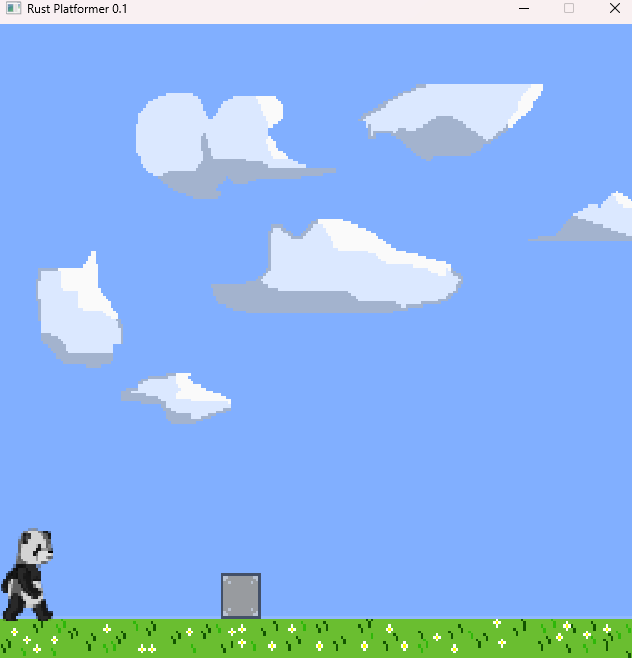
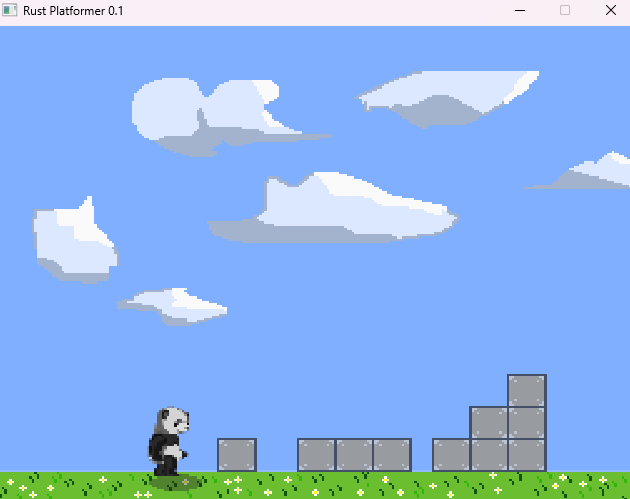
[Refactor] Improved workflow

diff --git a/src/state/command.rs b/src/state/command.rs
@@ -4,7 +4,7 @@ use std::time::Instant;
 
 use minifb::Key;
 
-use crate::state::{ACCELERATION, JUMP_VELOCITY, MAX_VELOCITY, Obstacle};
+use crate::state::{ACCELERATION, jump_obstacles, JUMP_VELOCITY, MAX_VELOCITY, Obstacle};
 use crate::state::player::Player;
 
 pub trait Command {
@@ -12,9 +12,6 @@ pub trait Command {
 }
 
 pub struct MoveLeft;
-pub struct MoveRight;
-pub struct Jump;
-pub struct Kick;
 
 impl Command for MoveLeft {
     fn execute(&self, player: &mut Player, obstacles: &Vec<Obstacle>) {
@@ -22,7 +19,7 @@ impl Command for MoveLeft {
         // Check if the player has any obstacles to the left by checking if its x coordinate violates any of the thresholds set by obstacles
         let obstacle_left: bool = obstacles.iter().any(|obs| {
             player.obstacle_left = true;
-            player.x < obs.x_right && player.x > obs.x_right -10.0 && player.on_ground
+            player.x < obs.x_right && player.x > obs.x_right -10.0 && player.y == obs.y_transition_pos
         });
 
         if !obstacle_left {
@@ -58,12 +55,16 @@ impl Command for MoveLeft {
             // Move player based on current velocity
             player.x -= player.vx;
 
+            jump_obstacles(player);
+
         }  else {
-            // Stop the player from moving right if colliding
+            // Stop the player from moving left if colliding
             player.vx = 0.0;
         }
     }
 }
+
+pub struct MoveRight;
 
 impl Command for MoveRight {
     fn execute(&self, player: &mut Player, obstacles: &Vec<Obstacle>) {
@@ -71,7 +72,7 @@ impl Command for MoveRight {
         // Check if the player has any obstacles to the right by checking if its x coordinate violates any of the thresholds set by obstacles
         let obstacle_right: bool = obstacles.iter().any(|obs| {
             player.obstacle_right = true;
-            player.x > obs.x_left && player.x < obs.x_left + 10.0 && player.on_ground
+            player.x > obs.x_left && player.x < obs.x_left + 10.0 && player.y >= obs.y_transition_pos
         });
 
         if !obstacle_right {
@@ -105,6 +106,8 @@ impl Command for MoveRight {
             // Move player based on current velocity
             player.x += player.vx;
 
+            jump_obstacles(player);
+
         }   else {
             // Stop the player from moving right if colliding
             player.vx = 0.0;
@@ -112,20 +115,21 @@ impl Command for MoveRight {
     }
 }
 
+pub struct Jump;
+
 impl Command for Jump {
     fn execute(&self, player: &mut Player, _obstacles: &Vec<Obstacle>) {
 
-        // Jumping is restricted to 1 jump a second in order to mitigate broken infinite jumping
-        let now = Instant::now();
-        if now.duration_since(player.last_jump_time) >= player.jump_cooldown {
+        if !player.is_jumping {
             player.vy = JUMP_VELOCITY;
             player.on_ground = false;
-            player.last_jump_time = now; // Update the last jump time
             player.last_key = Some(Key::Space);
+            player.is_jumping = true;
         }
     }
 }
 
+pub struct Kick;
 
 impl Command for Kick {
     fn execute(&self, player: &mut Player, _obstacles: &Vec<Obstacle>) {

diff --git a/src/state/global_command.rs b/src/state/global_command.rs
@@ -1,7 +1,8 @@
 use std::cell::RefCell;
-use std::collections::{HashMap, HashSet};
+use std::collections::HashMap;
 use std::rc::Rc;
-use crate::state::{GRAVITY, GROUND, LOWER_BOUND, Obstacle, UPPER_BOUND};
+
+use crate::state::{GRAVITY, GROUND, jump_obstacles, LOWER_BOUND, Obstacle, UPPER_BOUND};
 use crate::state::player::Player;
 
 pub trait GlobalCommand {
@@ -21,32 +22,8 @@ impl GlobalCommand for ApplyGravity {
 pub struct CollisionDetection;
 
 impl GlobalCommand for CollisionDetection {
-    fn execute(&self, player: &mut Player, obstacles: &Vec<Obstacle>) {
-        let mut obstacles_on = HashSet::new(); // Track obstacles the player is on
-        let mut highest_y_position = player.y; // Track the highest y position for transition
-
-        for obs in obstacles.iter() {
-            if is_on_obstacle(player.x, player.y, obs) {
-                println!("Player is on obstacle: {:?}", obs.id);
-                obstacles_on.insert(obs.id);
-                if obs.y_transition_pos > highest_y_position {
-                    highest_y_position = obs.y_transition_pos;
-                }
-            } else {
-                println!("Player is not on obstacle: {:?}", obs.id);
-            }
-        }
-
-        // Update player's position and state based on obstacles tracked
-        player.y = highest_y_position;
-        player.on_obstacles = obstacles_on;
-        // player.on_ground = !player.on_obstacles.is_empty(); // Set on ground if on any obstacle
-
-        println!("Final player state:");
-        println!("Player position: x = {}, y = {}", player.x, player.y);
-        println!("Obstacles player is on: {:?}", player.on_obstacles);
-        println!("Player on ground: {}", player.on_ground);
-        println!("Highest y transition position: {}\n", highest_y_position);
+    fn execute(&self, player: &mut Player, _obstacles: &Vec<Obstacle>) {
+        jump_obstacles(player);
     }
 }
 
@@ -82,6 +59,8 @@ pub struct Misc;
 impl GlobalCommand for Misc {
     fn execute(&self, player: &mut Player, _obstacles: &Vec<Obstacle>) {
 
+        println!("y vel: {}", player.vy);
+
         // Apply vertical velocity
         if !player.on_obstacle {
             player.y += player.vy;
@@ -97,8 +76,10 @@ impl GlobalCommand for Misc {
         if player.y >= GROUND {
             player.on_ground = true;
             player.almost_ground = false;
+            player.on_obstacle = false;
             player.vy = 0.0;
             player.y = GROUND;
+            player.is_jumping = false;
         } else {
             player.on_ground = false;
         }

diff --git a/src/state/mod.rs b/src/state/mod.rs
@@ -1,6 +1,7 @@
 use std::time::Duration;
 
 use minifb::Key;
+use crate::state::player::Player;
 
 pub mod event_loop;
 pub mod update;
@@ -9,7 +10,7 @@ pub mod global_command;
 pub mod player;
 mod input_handler;
 
-const FRAME_DURATION: Duration = Duration::from_millis(16); // Approximately 60Hz refresh rate
+const FRAME_DURATION: Duration = Duration::from_nanos(16666667); // 16.6666667 ms = 60 FPS
 const BACKGROUND_CHANGE_INTERVAL: Duration = Duration::from_secs(1);
 
 const GRAVITY: f32 = 0.5;
@@ -27,10 +28,64 @@ pub struct ObstacleId(pub usize);
 
 #[derive(Clone, Copy)]
 pub struct Obstacle {
-    pub id: ObstacleId, // Add an ID to identify each obstacle
+    pub id: ObstacleId,
     pub x_left: f32,
     pub x_right: f32,
     pub y_top: f32,
     pub y_bottom: f32,
     pub y_transition_pos: f32,
+}
+
+pub fn jump_obstacles(mut player: &mut Player) {
+
+    if player.x >= 70.0 && player.x <= 100.0 && player.y >= 175.0 && player.y <= 185.0 {
+        player.y = 185.0;
+        player.on_obstacle = true;
+        player.on_ground = true;
+        player.is_jumping = false;
+    }
+
+    else if player.x >= 113.0 && player.x <= 160.0 && player.y >= 175.0 && player.y <= 185.0 {
+
+        player.y = 185.0;
+        player.on_obstacle = true;
+        player.on_ground = true;
+        player.is_jumping = false;
+    }
+
+    else if player.x >= 160.0 && player.x <= 175.0 && player.y >= 175.0 && player.y <= 185.0 {
+
+        player.y = 185.0;
+        player.on_obstacle = true;
+        player.on_ground = true;
+        player.is_jumping = false;
+    }
+
+
+    else if player.x >= 174.0 && player.x <= 182.0 && player.y >= 160.0 && player.y <= 185.0 {
+
+        player.y = 185.0;
+        player.on_obstacle = true;
+        player.on_ground = true;
+        player.is_jumping = false;
+    }
+
+    else {
+        player.on_ground = false;
+        player.on_obstacle = false;
+    }
+}
+
+fn apply_friction(player: &mut Player) {
+    if player.vx > 0.0 {
+        player.vx -= FRICTION;
+        if player.vx < 0.0 {
+            player.vx = 0.0;
+        }
+    } else if player.vx < 0.0 {
+        player.vx += FRICTION;
+        if player.vx > 0.0 {
+            player.vx = 0.0;
+        }
+    }
 }

diff --git a/src/state/event_loop.rs b/src/state/event_loop.rs
@@ -35,10 +35,10 @@ pub fn start_event_loop(player: &mut Player, sprites: &Sprites, obstacles: &Vec<
         window_height,
         WindowOptions::default(),
     ).unwrap_or_else(|e| {
-        panic!("{}", e); // Panic if window creation fails
+        panic!("{}", e);
     });
 
-    // Initialize window buffer to store pixel data at low resolution
+    // Initialize window and scaled buffer
     let mut window_buffer = vec![0; WINDOW_WIDTH * WINDOW_HEIGHT];
     let mut scaled_buffer = vec![0; window_width * window_height];
 
@@ -48,15 +48,15 @@ pub fn start_event_loop(player: &mut Player, sprites: &Sprites, obstacles: &Vec<
 
     // Main event loop: runs as long as the window is open and the Escape key is not pressed
     while window.is_open() && !window.is_key_down(Key::Escape) {
-        let start = Instant::now(); // Record start time for frame timing
+        let start = Instant::now();
 
         // Update game state based on user input
         handle_user_input(player, &mut window, &obstacles, &commands, &global_commands);
 
-        // Check if it's time to change the background sprite
+        // Change background sprite every second
         if last_background_change.elapsed() >= BACKGROUND_CHANGE_INTERVAL {
             background_sprite_index = (background_sprite_index + 1) % 4; // Cycle between 0 and 3
-            last_background_change = Instant::now(); // Reset the timer
+            last_background_change = Instant::now(); // Reset the timer to current time
         }
 
         // Update the pixel buffer with the current game state
@@ -65,7 +65,7 @@ pub fn start_event_loop(player: &mut Player, sprites: &Sprites, obstacles: &Vec<
         // Render the updated buffer
         render(window_width, window_height, &mut window, &mut window_buffer, &mut scaled_buffer);
 
-        // Maintain a frame rate of approximately 60 fps
+        // Maintain a frame rate of 60 fps
         let elapsed = start.elapsed();
         if elapsed < FRAME_DURATION {
             thread::sleep(FRAME_DURATION - elapsed);

diff --git a/src/state/input_handler.rs b/src/state/input_handler.rs
@@ -1,10 +1,12 @@
 use std::cell::RefCell;
 use std::collections::HashMap;
 use std::rc::Rc;
+
 use minifb::{Key, KeyRepeat, Window};
+
+use crate::state::{apply_friction, Obstacle};
 use crate::state::command::CommandMap;
 use crate::state::global_command::GlobalCommand;
-use crate::state::{FRICTION, Obstacle};
 use crate::state::player::Player;
 
 pub fn handle_user_input(player: &mut Player, window: &mut Window, obstacles: &Vec<Obstacle>, commands: &CommandMap, global_commands: &HashMap<String, Rc<RefCell<dyn GlobalCommand>>>) {
@@ -28,17 +30,7 @@ pub fn handle_user_input(player: &mut Player, window: &mut Window, obstacles: &V
 
     // Apply friction to gradually slow down the player
     if !any_key_pressed {
-        if player.vx > 0.0 {
-            player.vx -= FRICTION;
-            if player.vx < 0.0 {
-                player.vx = 0.0;
-            }
-        } else if player.vx < 0.0 {
-            player.vx += FRICTION;
-            if player.vx > 0.0 {
-                player.vx = 0.0;
-            }
-        }
+        apply_friction(player);
     }
 }
 

diff --git a/src/main.rs b/src/main.rs
@@ -15,8 +15,10 @@ fn main() {
     let sprites = Sprites::new();
 
     let obstacles = vec![
-        Obstacle { id: ObstacleId(1),  x_left: 70.5, x_right: 98.0, y_bottom: 180.0, y_top: 160.0, y_transition_pos: 187.0},
-        // Obstacle { id: ObstacleId(2), x_left: 104., x_right: 158.0, y_bottom: 190.0, y_top: 170.0, y_transition_pos: 187.0},
+        Obstacle { id: ObstacleId(1),  x_left: 70.5, x_right: 98.0, y_bottom: 185.0, y_top: 175.0, y_transition_pos: 205.0},
+        Obstacle { id: ObstacleId(2), x_left: 107.0, x_right: 160.0, y_bottom: 185.0, y_top: 175.0, y_transition_pos: 205.0},
+        Obstacle { id: ObstacleId(3), x_left: 160.0, x_right: 212.0, y_bottom: 185.0, y_top: 175.0, y_transition_pos: 205.0},
+        Obstacle { id: ObstacleId(3), x_left: 173.0, x_right: 212.0, y_bottom: 185.0, y_top: 185.0, y_transition_pos: 185.0},
     ];
 
     let mut player = Player::new(1.0, 176.0);

diff --git a/src/state/player.rs b/src/state/player.rs
@@ -23,9 +23,8 @@ pub struct Player {
     pub almost_ground: bool,
     pub obstacle_left: bool,
     pub obstacle_right: bool,
-    pub last_jump_time: Instant,
-    pub jump_cooldown: Duration,
-    pub on_obstacles: HashSet<ObstacleId>
+    pub on_obstacles: HashSet<ObstacleId>,
+    pub is_jumping: bool
 }
 
 impl Player {
@@ -50,9 +49,8 @@ impl Player {
             almost_ground: false,
             obstacle_left: false,
             obstacle_right: false,
-            last_jump_time: Instant::now(),
-            jump_cooldown: Duration::new(1, 0), // 1-second cooldown
-            on_obstacles: HashSet::new()
+            on_obstacles: HashSet::new(),
+            is_jumping: false
         }
     }
 }
